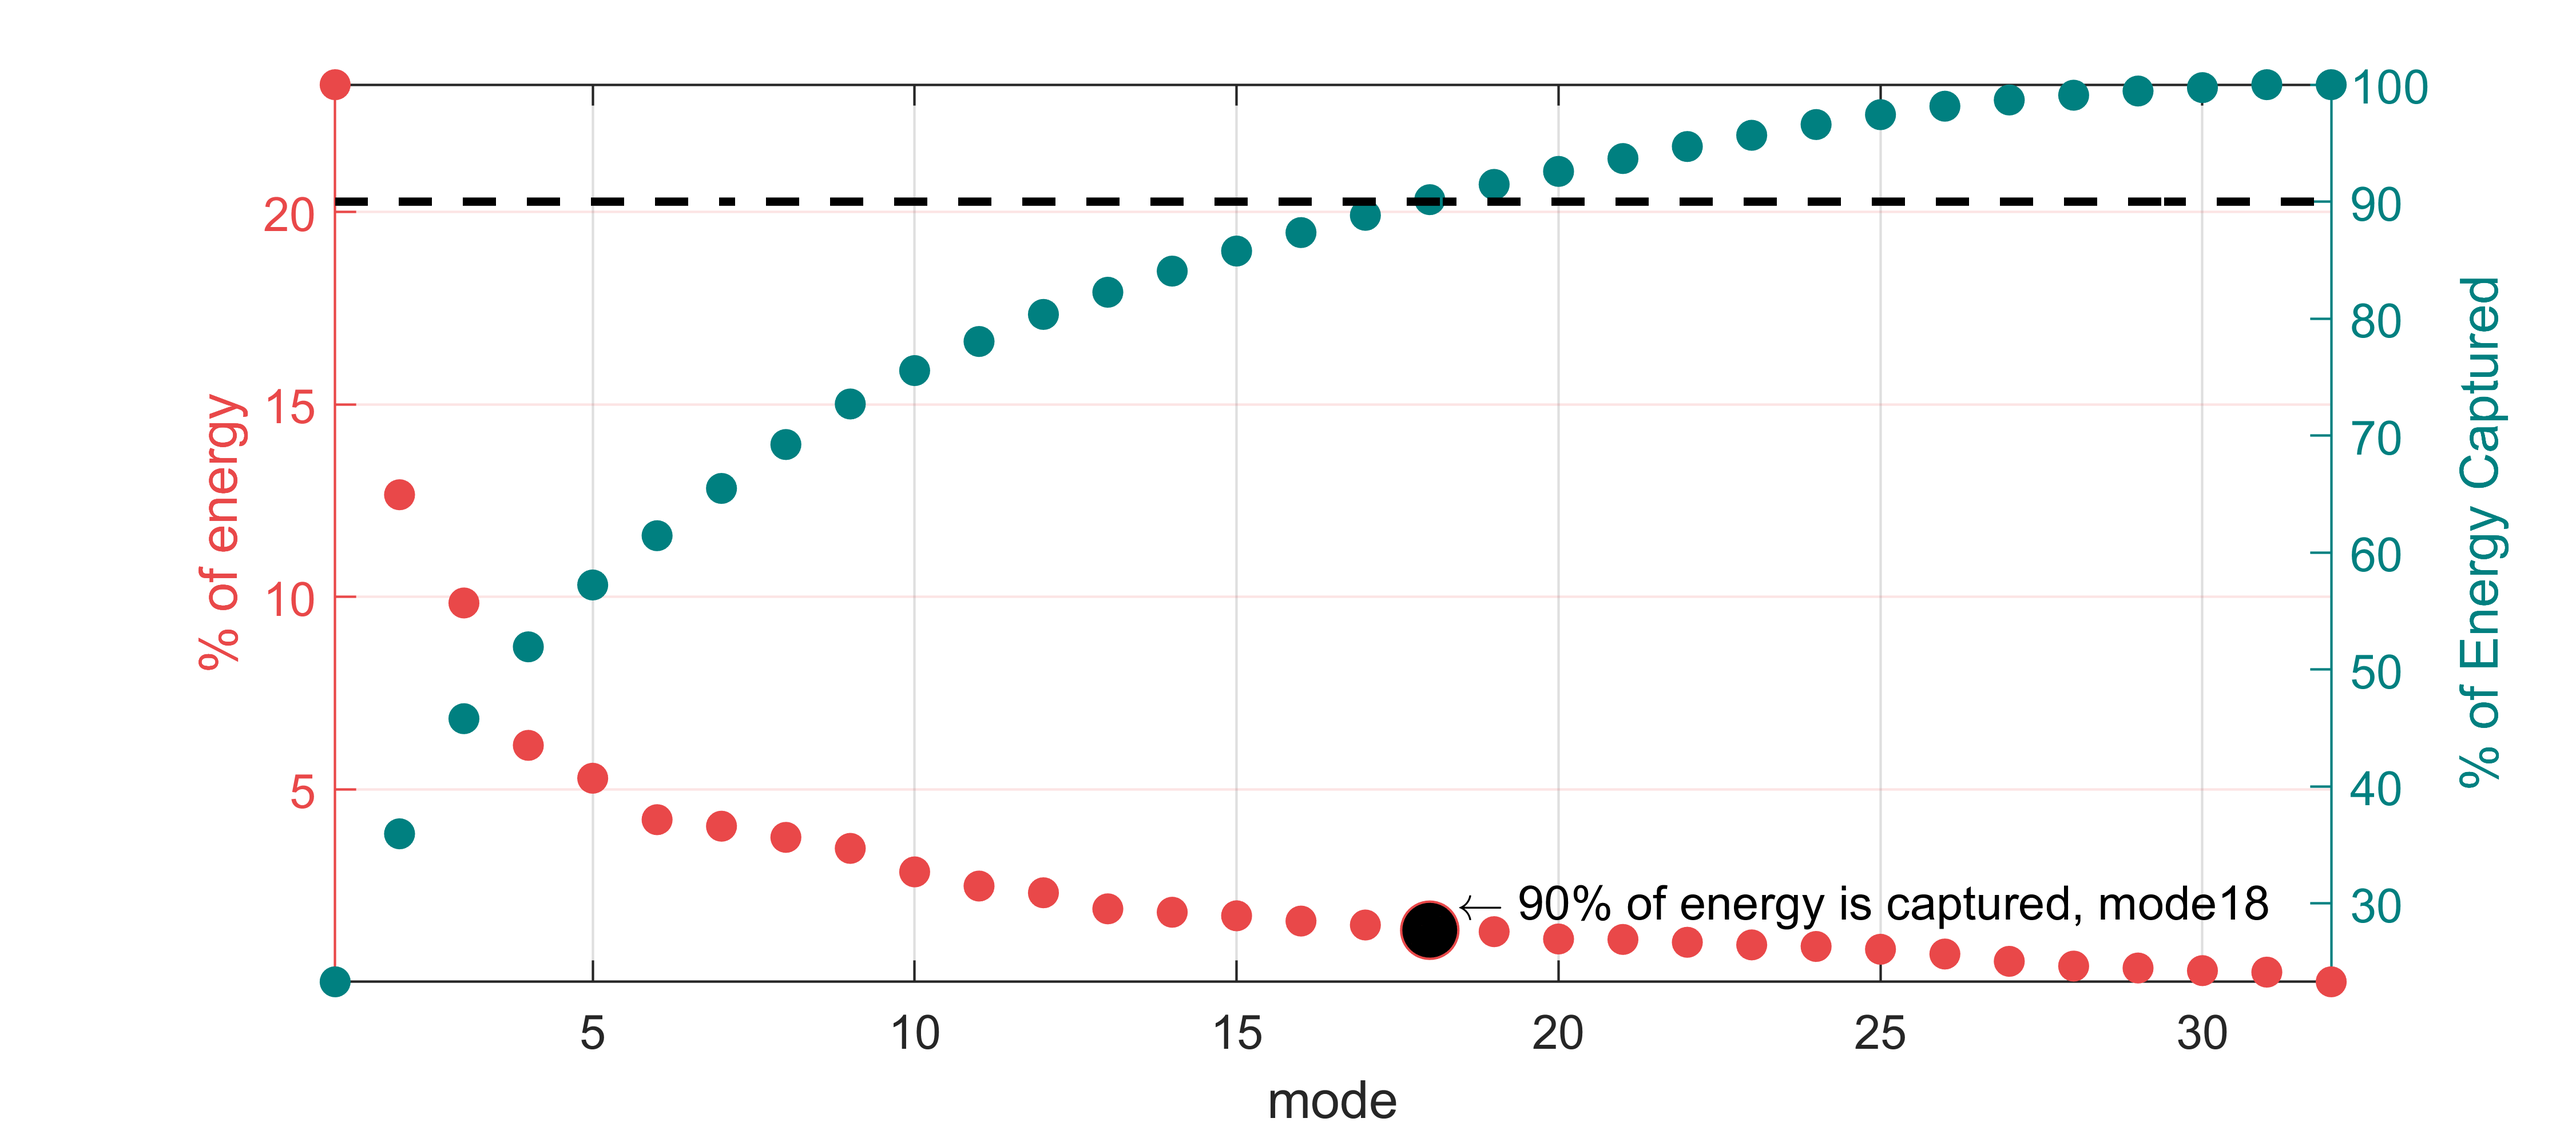
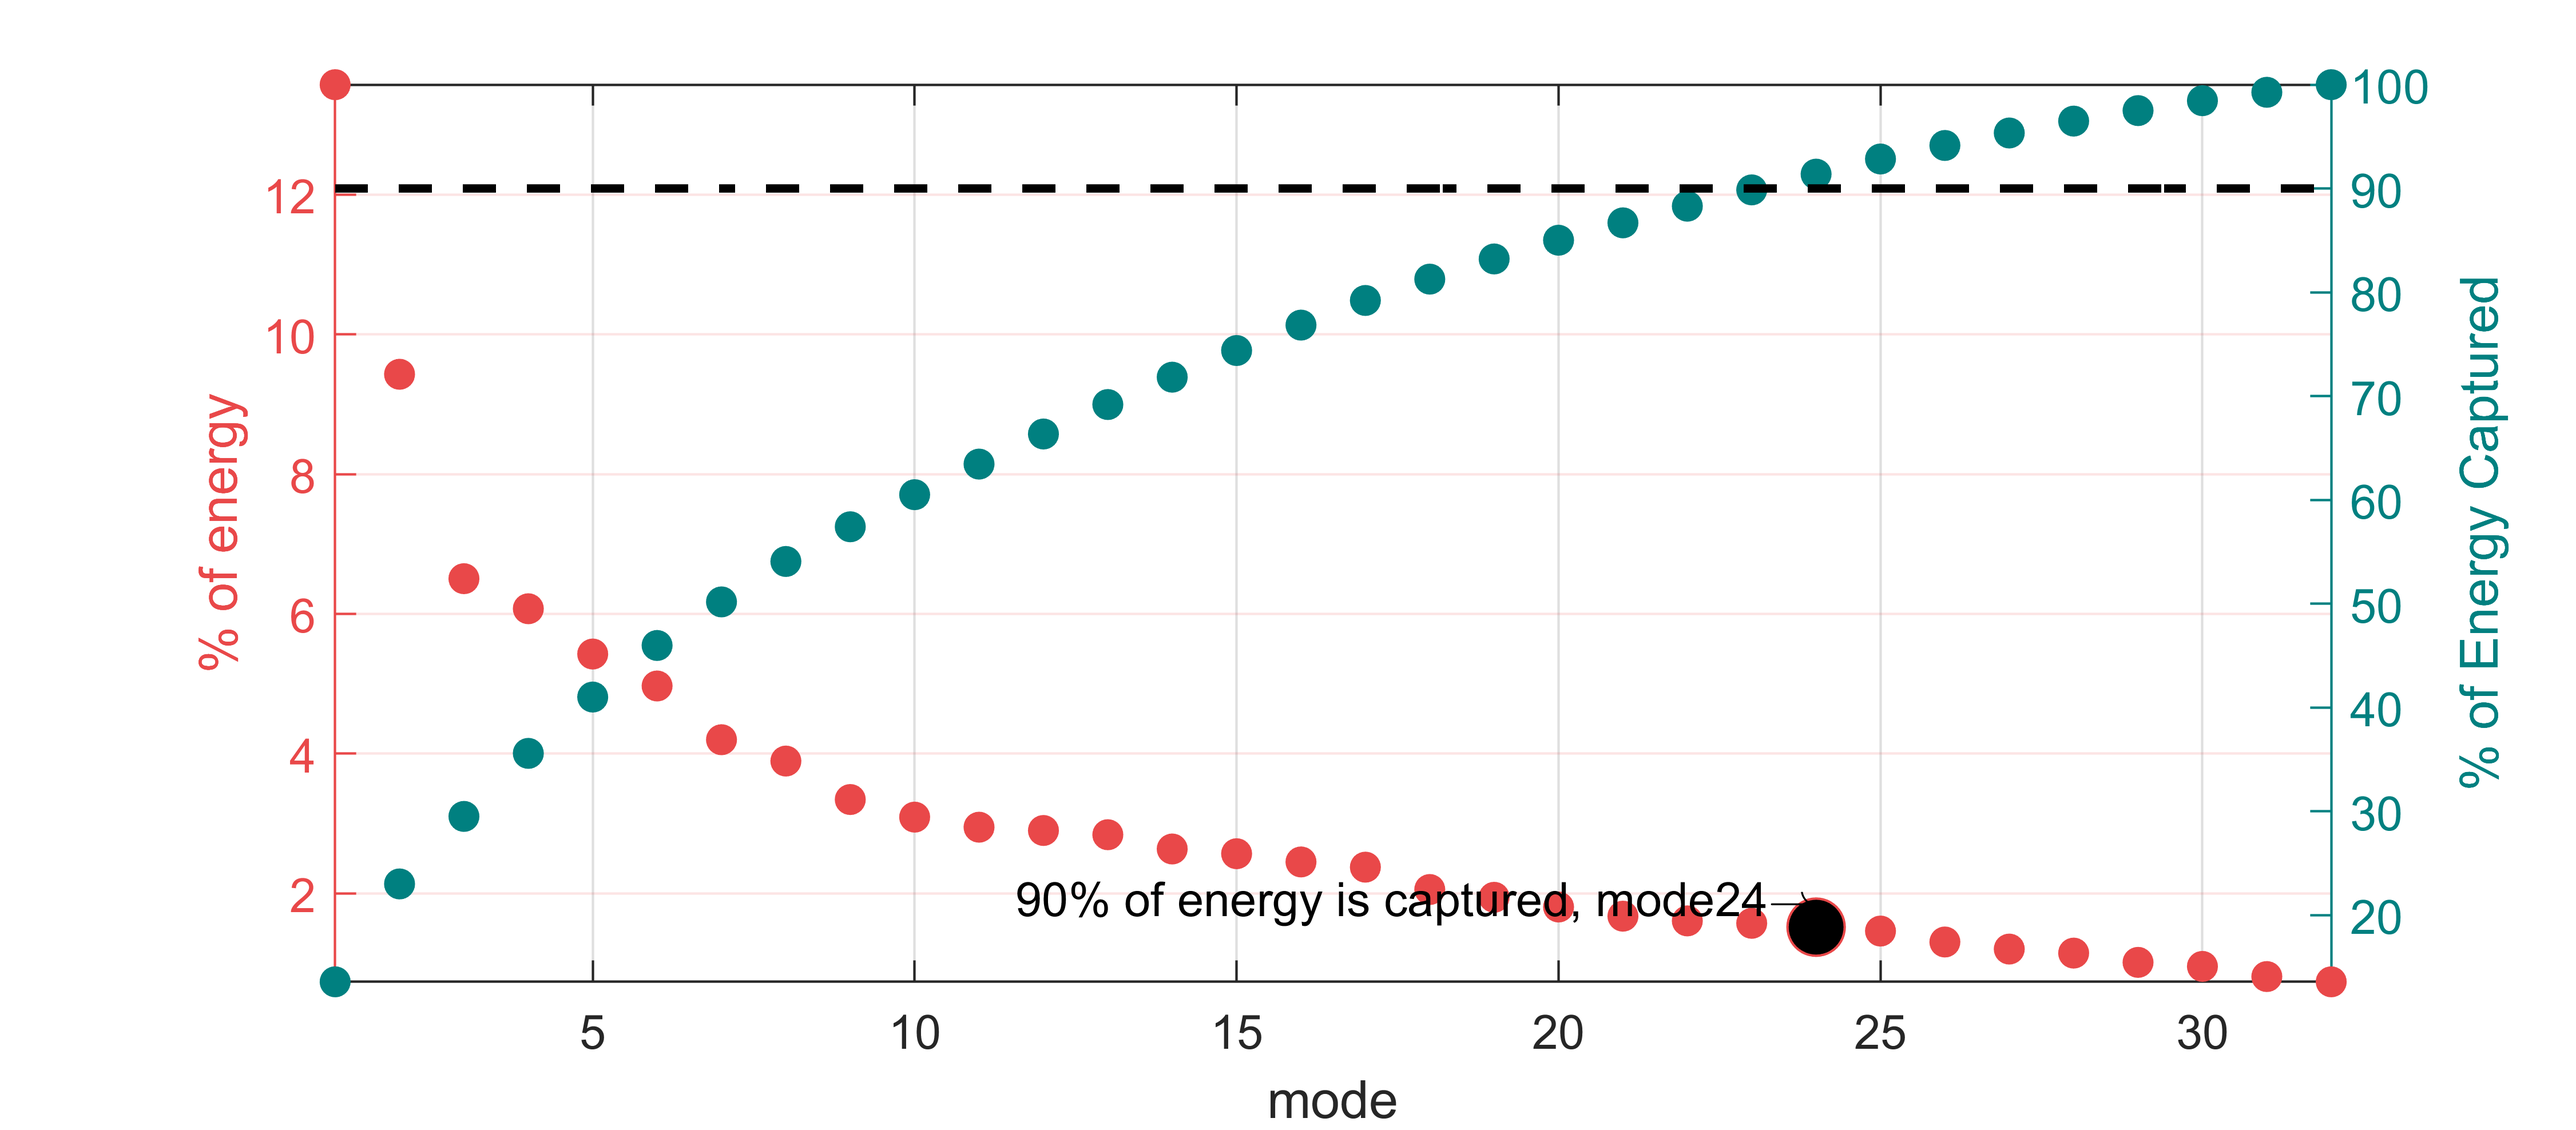
Changes to project_main and project_main_MUKUL to mover NaN thresholding before the SVD adds in u,v comparision and can switch to vmag if desired

diff --git a/project_main_Mukul.m b/project_main_Mukul.m
@@ -3,14 +3,14 @@ clear all, close all
 %load data
 load("C:\Users\abber\Documents\School\Grad School\Winter 20\AMATH 582\Project\Mukul flow_data Crop.mat")
 nRot = length(data);
-nRot = 32; %for just upstream portion
+nRot = 32; %for just the upstream portion 
 nx = 52;
 ny = 52;
 mask=data(1).Interp.mask;
 for iRot = 1:nRot
     %Y(:,iRot) = reshape(data(iRot).Interp.Vort_crop, [nx*ny 1]);
     %Y(:,iRot) = reshape(data(iRot).InterpCommon.Vmag_crop, [nx*ny 1]);
-    Y(:,iRot) = reshape(data(iRot).Interp.Vmag_crop(~mask),[],1);
+    Y(:,iRot) = reshape(data(iRot).Interp.Vort_crop,[],1);
 end
 
 figure
@@ -23,12 +23,14 @@ for n=2:4:nRot
     axes(ha(p))
     ax=gca;
     tmpU=data(n).Interp.U_crop;
-    tmpU(mask)=NaN;
+%     tmpU(mask)=NaN;
     tmpV=data(n).Interp.V_crop;
-    tmpV(mask)=NaN;
+%     tmpV(mask)=NaN;
     tmpVmag=data(n).Interp.Vmag_crop;
-    tmpVmag(mask)=NaN;
-    pcolor(data(n).Interp.Xcrop,data(n).Interp.Ycrop,tmpVmag)
+%     tmpVmag(mask)=NaN;
+    tmpVort=data(n).Interp.Vort_crop;
+%     tmpVmag(mask)=NaN;
+    pcolor(data(n).Interp.Xcrop,data(n).Interp.Ycrop,tmpVort)
     hold on
     quiver(data(n).Interp.Xcrop,data(n).Interp.Ycrop,tmpU,tmpV,2,'k')
     plot(data(n).Interp.foil,'facecolor',[0 0 0],'facealpha',0.5...
@@ -47,9 +49,16 @@ end
 
 %% mean-subtract and remove NaNs for SVD
 
-Yavg = mean(Y,2,'omitnan'); % compute row mean for subtraction
-Yms = Y-Yavg*ones(1,size(Y,2)); % Y mean-subtracted
-% Yms = fillmissing(Yms, 'constant', 0); %replace NaN
+Yavg = mean(Y,2,'omitnan'); %compute row mean for subtraction
+Yms =Y-Yavg*ones(1,size(Y,2)); % Y mean-subtracted
+Yms(isnan(Yms))=0; %replace NaN
+
+%Remove values where the number of NaN in that row is greater than the
+%threshold
+Ynan = ismissing(Y);
+nanRow = sum(Ynan,2); % number of NaNs in each row
+th = nRot/2; % threshold for number of NaNs allowed before row is masked
+Yms(nanRow>th,:)=[];
 
 [U,S,V] = svd(Yms,'econ');
 sig=diag(S);
@@ -57,8 +66,10 @@ energy=sig/sum(sig)*100;
 for n=1:length(sig)
     energytotal(n)=sum(energy(1:n));
 end
+figure
+pcolor(V)
 
-figure(1); clf(1)
+figure
 set(gcf,'position',[227.3000  403.9000  720.5571  316.1000])
 left_color = [0.9153    0.2816    0.2878];
 right_color = [0 .5 .5];
@@ -68,8 +79,9 @@ a=plot(energy,'o','markerfacecolor',left_color);
 hold on
 ind=find(energytotal>=90,1);
 plot(ind,energy(ind),'o','markerfacecolor',[0 0 0],'markersize',12)
-text(ind,energy(ind),strcat('  \leftarrow 90% of energy is captured, mode '...
-    ,num2str(ind)),'VerticalAlignment','bottom','Fontsize',10);
+text(ind,energy(ind),strcat('90% of energy is captured, mode '...
+    ,num2str(ind),'\rightarrow  '),'VerticalAlignment','bottom','Fontsize'...
+    ,10,'HorizontalAlignment','right');
 ylabel('% of energy')
 axis tight
 yyaxis right
@@ -81,19 +93,14 @@ xlabel('mode')
 % set(gca, 'SortMethod', 'depth')
 axis tight
 grid on
-print(gcf,'Energy Cropped','-dpng','-r600')
+print(gcf,'Energy Cropped Mukul','-dpng','-r600')
 
 %% show modes
 %put NaNs back in
+Ureplaced=zeros(size(Y));
+Ureplaced(nanRow>th,:)=NaN;
+Ureplaced(~(nanRow>th),:)=U;
 
-% Ynan = ismissing(Y);
-% nanRow = sum(Ynan,2); % number of NaNs in each row
-% th = 4; % threshold for number of NaNs allowed before row is masked
-% for iRow = 1:size(Y,1)
-%     if nanRow(iRow) > th
-%         U(iRow,:) = NaN;
-%     end
-% end
 figure
 set(gcf,'position',[331.8571   91.2857  741.1429  628.7143])
 Xcrop=data(1).Interp.Xcrop;
@@ -103,10 +110,10 @@ p=1;
 for k = [1:5,ind]
     axes(ha(p))
     %Put NaNs back in
-%     mode=U(:,k);
-    mode=zeros(nx*ny,1);
-    mode(~mask)=U(:,k);
-    mode(mask)=NaN;
+    mode=Ureplaced(:,k);
+%     mode=zeros(nx*ny,1);
+%     mode(~mask)=Ureplaced(:,k);
+%     mode(mask)=NaN;
     pcolor(Xcrop,Ycrop,reshape(mode, [nx ny]))
     hold on
     plot(data(1).Interp.foil,'facecolor',[0 0 0],'facealpha',0.5...
